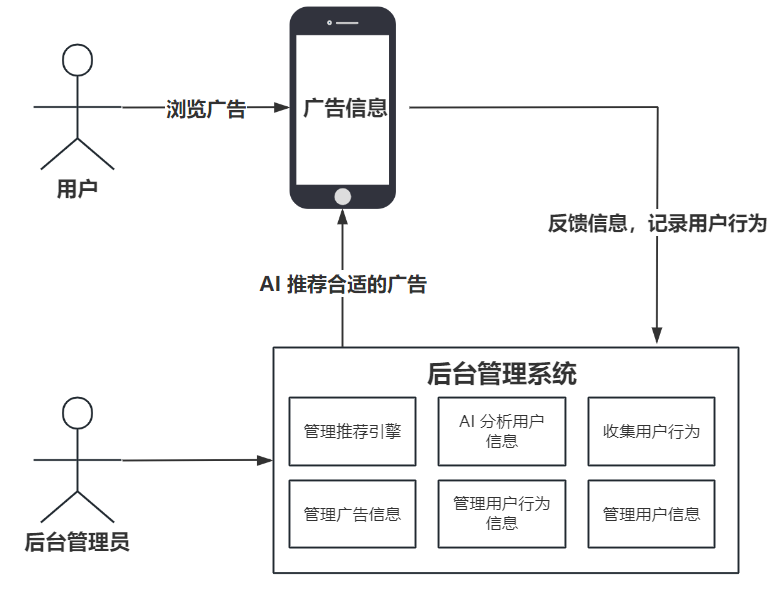
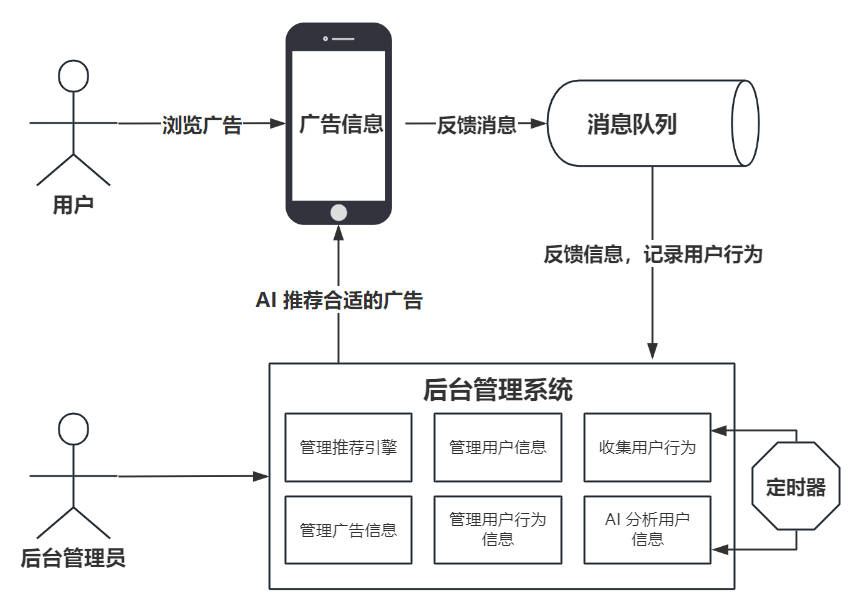
feat:流式返回加入限流，更新readme

Changed region(s): [[0.0, 0.0, 1.0, 0.9966], [0.6445, 0.2416, 0.6752, 0.2718]]

diff --git a/src/main/java/com/planb/service/impl/AdServiceImpl.java b/src/main/java/com/planb/service/impl/AdServiceImpl.java
@@ -174,6 +174,9 @@ public class AdServiceImpl implements IAdService {
         LoginUser loginUser = (LoginUser) authentication.getPrincipal();
         String userId = loginUser.getUser().getId();
 
+        // 限流操作
+        redisLimiterManager.doRateLimit(LimiterConstant.GET_RECOMMEND_KEY + userId);
+
         // 获取广告信息
         Map<String, String> map = RedisUtil.getHash(RedisConstant.AD);
 

diff --git a/README.md b/README.md
@@ -1,15 +1,237 @@
-# 项目介绍
+# 项目背景
 
 本项目是一个基于 AIGC 的个性化广告推荐系统，区别于传统推荐系统，本系统通过当前流行的人工智能技术，替代了传统的内容过滤和协同过滤等算法，进行广告推荐。
 
 传统的广告推荐系统面临冷启动、数据稀疏和位置等因素带来的一系列问题，通常需要通过协同过滤、SVD 等矩阵分解、位置归一化等方式来解决。而本项目采用先进的人工智能推荐技术，能够根据用户的喜好和广告的类型进行智能匹配，不仅有效解决了上述问题，还避免了推荐单一化的问题。
 
-本项目的实现基于 OpenAI 等 AI 服务，预设了智能推荐系统的 prompt 词，使人工智能能够更好地为系统服务，从而显著提高用户看到感兴趣广告的概率。
+本项目的实现基于 智谱AI 等服务，预设了智能推荐系统的 `prompt` 词，使人工智能能够更好地为系统服务，从而显著提高用户看到感兴趣广告的概率。
 
-# 项目架构图
+>传统解决方案我也在本项目中实现了，具体解决原理和实现逻辑可见[个人博客链接](https://planbbbbb.github.io/2024/06/06/Project-%E5%B9%BF%E5%91%8A%E6%8E%A8%E8%8D%90%E7%B3%BB%E7%BB%9F/)
+
+
+# 项目架构
+
+## 项目架构图
 
 <img src="images\架构图.png" alt="架构图" style="zoom: 45%;" />
 
-# 技术栈
+> 1. 后端定时任务每天采集当天的数据给予 AI 分析
+> 2. 后台管理员可以管理推荐引擎，广告信息，用户信息，用户行为信息等
+> 3. 前台用户可以在注册时选择自己的爱好兴趣等，在主页浏览的时候系统会自动推荐合适该用户的广告
 
-SpringBoot + AIGC + MyBatisPlus + SpringSecurity + Redis + Redisson限流 + MinIO + RabbitMQ + Caffenie
+
+
+## 技术选型
+
+1. Spring Boot
+2. MyBatis-Plus
+3. 智谱 AI
+4. RxJava + SSE（流式处理AI响应）
+5. Spring Security（权限控制）
+6. Redis （Redisson限流）
+7. RabbitMQ（处理瞬时请求）
+8. Vue
+
+
+
+# AI 训练过程
+
+## prompt
+
+~~~txt
+从现在开始，你是一名广告推荐工程师，你负责对用户，广告，以及用户对于广告的行为这三者的数据进行分析，并为每个用户提供其当下最值的推荐的广告列表。
+从现在开始，我将在后续给你三类数据，如：
+第一类：用户信息：
+【【【
+userId|interest
+1|300005,300014,300017,300018
+2|300001,300009,300016,300018
+3|300003,300011,300019,300020
+】】】
+
+第二类：广告信息：
+【【【
+adId|keyWords|position|startTime|endTime|type
+1|300010,300012|7|2022-01-14 13:30:08|2079-06-14 12:21:20|200002
+2|300010,300012|7|2022-01-14 13:30:08|2079-06-14 12:21:20|200002
+】】】
+
+第三类：用户行为信息：
+【【【
+behaviorId|userId|adId|action|created
+1|1|1|100001|2024-06-26 11:01:13
+2|2|1|100001|2024-06-26 11:04:18
+】】】
+
+每次发送这类的数据给你的时候我的会将按照以下格式发送给你，如：
+
+新增用户信息：
+【【【
+userId|interest
+1|300005,300014,300017,300018
+2|300001,300009,300016,300018
+3|300003,300011,300019,300020
+】】】
+
+或：
+新增广告信息：
+【【【
+adId|keyWords|position|startTime|endTime|type
+1|300010,300012|7|2022-01-14 13:30:08|2079-06-14 12:21:20|200002
+2|300010,300012|7|2022-01-14 13:30:08|2079-06-14 12:21:20|200002
+】】】
+
+或：
+新增用户行为信息：
+【【【
+behaviorId|userId|adId|action|created
+1|1|1|100001|2024-06-26 11:01:13
+2|2|1|100001|2024-06-26 11:04:18
+】】】
+
+在接收完这三类信息之后，你只需要回复收到，不需要回复多余的内容。你需要分析并与之前所接收到的信息进行统一的汇总理解，以便后续我像你提问。
+
+除了上述三种信息采集的问题外，我还会按照下面的格式对你进行提问，如：
+
+请对编号为*的用户推荐*个广告
+
+其中*号里的内容我会进行更替，在接收到我这个提问之后，你需要分析这个用户所可能想要看的广告，你可以基于内容推荐，基于协同过滤推荐等算法来为这个用户推荐适合的广告。
+
+同时，对于你所返回的广告列表有一定的格式要求，你需要取出每个广告的adId，然后进行英文逗号拼接，此外不要出现多余的回答。
+对于你所推荐的广告列表，我有以下几点要求：
+1. 你不需要回复你的分析过程给我，你只需要返回用逗号拼接好的字符串给我即可；
+2. 你可以基于内容推荐，基于协同过滤推荐等算法进行推荐，同时当推荐广告数量不足的时候，你可以重复地推荐用户已经浏览过的广告，这是被允许的。
+3. 当你发现推荐广告数量不足的时候，可以随机的选取其他的相对热门的广告进行推荐，即我不希望你所推荐的广告列表有重复的广告，即4,5,4。
+以下是问答实例：
+
+问：请对编号为1的用户推荐4个广告
+答：1,3,4,5
+
+我希望你的回复中不要包含“答：”这个词，你只需要返回广告列表即可。
+~~~
+
+
+
+> 本文的prompt中主要是参考以下几点：
+>
+> 1. 规定AI返回格式，便于后端截取处理
+> 2. 规定消息问题，让AI知道哪类消息是采集数据，哪类消息是处理数据，并让AI返回尽可能少的话，减少token的使用的同时便于后端处理
+> 3. 采取一问一答的方式，让AI更清楚会话的流程
+> 4. 发送采集数据的适合采用`csv`格式的数据，更省空间
+
+
+
+# 项目优化
+
+## 实时推送
+
+### 流式处理请求
+
+由于 AI 生成结构很慢，但考虑到其生成内容是一个字符一个字符地生成的，故我在规定好返回格式的情况下，在获取到单个广告id时，就可以返回单个广告详情给前端展示了，增加用户体验，同时还使用 Redis 缓存广告信息数据，更快返回前端。
+
+本项目中才有智谱 AI 的流式API，即其内置的 RxJava，获取到返回的数据流，根据逗号分割截取到广告id，即可返回前端广告数据，搭配 SSE 技术，单向地往前端推送实时数据。
+
+> 为什么要用SSE？
+>
+> 1. 简单易用
+> 2. 相比于WebSocket，其不需要握手机制，可以降低延迟
+> 3. 本项目场景只需要服务端向客户端发送实时数据
+>
+> **具体其他消息实时推送方案可见[个人博客链接](https://planbbbbb.github.io/2024/07/21/Study-%E6%B6%88%E6%81%AF%E5%AE%9E%E6%97%B6%E6%8E%A8%E9%80%81/)**
+
+
+
+### 核心代码
+
+~~~java
+public SseEmitter recommendByAISSe(String num) {
+        // 获取用户信息
+        Authentication authentication = SecurityContextHolder.getContext().getAuthentication();
+        LoginUser loginUser = (LoginUser) authentication.getPrincipal();
+        String userId = loginUser.getUser().getId();
+
+        // 获取广告信息
+        Map<String, String> map = RedisUtil.getHash(RedisConstant.AD);
+
+        // 构建AI请求消息
+        String userMessage = "请对编号为" + userId + "的用户推荐" + num + "个广告";
+
+        // 建立 SSE 连接对象，0 表示永不超时
+        SseEmitter sseEmitter = new SseEmitter(0L);
+        // AI 生成，SSE 流式返回
+        Flowable<ModelData> modelDataFlowable = aiUtil.doStreamRequest(AIConstant.SYSTEM_MESSAGE, userMessage, null);
+        // 拼接完整广告id
+        StringBuilder stringBuilder = new StringBuilder();
+
+        modelDataFlowable
+                .observeOn(Schedulers.io())
+                .map(modelData -> modelData.getChoices().get(0).getDelta().getContent())
+                .flatMap(message -> {
+                    List<Character> characterList = new ArrayList<>();
+                    for (char c : message.toCharArray()) {
+                        characterList.add(c);
+                    }
+                    return Flowable.fromIterable(characterList);
+                })
+                .doOnNext(c -> {
+                    if (c == ',') {
+                        String adJson = map.get(stringBuilder.toString());
+                        // 通过 SSE 返回给前端
+                        sseEmitter.send(adJson);
+                        // 重置，准备拼接下一个广告id
+                        stringBuilder.setLength(0);
+                    } else {
+                        stringBuilder.append(c);
+                    }
+                })
+                .doOnError((e) -> log.error("sse error", e))
+                .doOnComplete(() -> {
+                    // 在完成时检查是否还有未处理的字符串
+                    if (stringBuilder.length() > 0) {
+                        String adJson = map.get(stringBuilder.toString());
+                        sseEmitter.send(adJson);
+                        stringBuilder.setLength(0);
+                    }
+                    sseEmitter.complete();
+                })
+                .subscribe();
+        return sseEmitter;
+    }
+~~~
+
+
+
+## 限流
+
+由于 AIGC 功能资源有限，故需要限制用户在前台不断刷新发送调用 AI 的请求，进行限流。
+
+本项目采用基于 Redisson 的 Ratelimiter 实现限流，限制用户请求。
+
+~~~java
+public void doRateLimit(String key) {
+        // 创建一个限流器，每秒最多访问2次
+        RRateLimiter rateLimiter = redissonClient.getRateLimiter(key);
+        // 限流器的统计规则（每秒2个请求；连续的请求，最多只能有1个请求被允许通过）
+        // RateType.OVERALL表示速率限制作用于整个令牌桶，即限制所有请求的速率
+        rateLimiter.trySetRate(RateType.OVERALL, 2, 1, RateIntervalUnit.SECONDS);
+        // 每当来了一个操作，请求一个令牌
+        boolean canOp = rateLimiter.tryAcquire(1);
+        if (!canOp) {
+            throw new BaseUnCheckedException(ErrorConstant.TOO_MANY_REQUEST);
+        }
+    }
+~~~
+
+
+
+## 降低瞬时负载
+
+当某一时间段有大批量的用户对广告做出点击、浏览等一系列行为时，都会在数据库中新增一条行为记录，以便 AI 获取数据进行分析推荐。然而，同一时间段内一大批的压力给到数据库时，数据库可能扛不住了，所以本项目的做法是使用 RabbitMQ 接收消息，随后再慢慢地消费，降低系统的瞬时负载。
+
+
+
+
+
+## 分库分表
+
+由于日积月累的前台访问，最先存在数据库检索压力的就是用户行为表，当表中数据量过大时，就导致 MySQL 的查询效率降低，故此时用分库分表的方式解决该问题。
